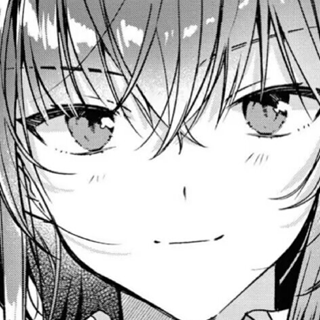
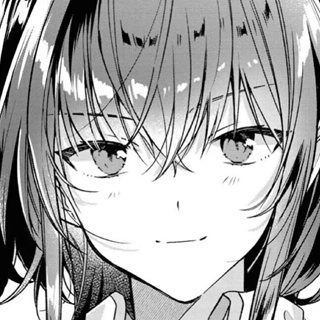
style: 头像改放 ID 上方并重裁，删除技能进度条，背景加入网格与彩色光带

diff --git a/style.css b/style.css
@@ -65,7 +65,6 @@ html:not(.js-ready) .entry,
 html:not(.js-ready) .loader{display:none!important}
 html:not(.js-ready) .site{opacity:1!important}
 html:not(.js-ready) .reveal{opacity:1!important;transform:none!important}
-html:not(.js-ready) .skill .bar i{width:var(--w)!important}
 html:not(.js-ready) .hero-name,
 html:not(.js-ready) .entry-id{-webkit-text-fill-color:currentColor!important;color:#eaf4ff!important}
 
@@ -119,9 +118,9 @@ button{font:inherit;color:inherit;background:none;border:none;cursor:pointer}
 .bg-aurora{
   position:absolute;inset:-15% -10% 0;
   background:
-    radial-gradient(45% 34% at 26% 30%, rgba(94,234,212,.20) 0%, rgba(94,234,212,0) 70%),
-    radial-gradient(42% 30% at 74% 22%, rgba(124,156,255,.24) 0%, rgba(124,156,255,0) 70%),
-    radial-gradient(50% 36% at 54% 62%, rgba(192,140,255,.16) 0%, rgba(192,140,255,0) 72%);
+    radial-gradient(45% 34% at 26% 30%, rgba(94,234,212,.27) 0%, rgba(94,234,212,0) 70%),
+    radial-gradient(42% 30% at 74% 22%, rgba(124,156,255,.31) 0%, rgba(124,156,255,0) 70%),
+    radial-gradient(50% 36% at 54% 62%, rgba(192,140,255,.21) 0%, rgba(192,140,255,0) 72%);
   filter:blur(12px);
   animation:aurora 22s ease-in-out infinite;
 }
@@ -453,16 +452,26 @@ button{font:inherit;color:inherit;background:none;border:none;cursor:pointer}
 /* ============================================================
    通用板块
    ============================================================ */
-/* 正文区底色：在深色基座上叠四道极淡的环境光，
-   避免 Hero 之下的长内容区变成一块死黑，同时不干扰文字对比度 */
+/* 正文区底色
+   原来只有四道极淡的光斑，整片区域接近纯黑、显得单调。
+   现在：基座提亮一档，再叠上「细网格线 + 斜向彩色光带 + 彩色光斑」。
+   网格线提供结构感，彩色光带负责打破纯黑，同时保持文字对比度。 */
 main{
   position:relative;z-index:2;
   background:
-    radial-gradient(70% 32% at 12% 5%,  rgba(94,234,212,.065) 0%, rgba(94,234,212,0) 70%),
-    radial-gradient(64% 28% at 90% 24%, rgba(124,156,255,.08) 0%, rgba(124,156,255,0) 72%),
-    radial-gradient(72% 30% at 48% 58%, rgba(192,140,255,.055) 0%, rgba(192,140,255,0) 74%),
-    radial-gradient(68% 26% at 28% 92%, rgba(94,234,212,.05) 0%, rgba(94,234,212,0) 72%),
-    linear-gradient(180deg,#05080f 0%,#080d1a 40%,#05080f 100%);
+    /* 细网格：横向 + 纵向各一层 */
+    repeating-linear-gradient(0deg,  rgba(150,205,255,.040) 0 1px, transparent 1px 46px),
+    repeating-linear-gradient(90deg, rgba(150,205,255,.040) 0 1px, transparent 1px 46px),
+    /* 斜向彩色光带 */
+    linear-gradient(112deg, transparent 0 33%, rgba(94,234,212,.055) 44%, transparent 53% 100%),
+    linear-gradient(112deg, transparent 0 60%, rgba(124,156,255,.070) 71%, transparent 80% 100%),
+    /* 彩色光斑 */
+    radial-gradient(72% 30% at 10% 3%,  rgba(94,234,212,.15) 0%, rgba(94,234,212,0) 70%),
+    radial-gradient(66% 26% at 92% 21%, rgba(124,156,255,.17) 0%, rgba(124,156,255,0) 72%),
+    radial-gradient(74% 28% at 46% 55%, rgba(192,140,255,.13) 0%, rgba(192,140,255,0) 74%),
+    radial-gradient(70% 24% at 26% 89%, rgba(94,234,212,.13) 0%, rgba(94,234,212,0) 72%),
+    /* 基座：比原来亮一档，不再是接近纯黑 */
+    linear-gradient(180deg,#080e1d 0%,#0e1734 42%,#0a1226 100%);
 }
 
 .sec{
@@ -522,11 +531,15 @@ main{
 /* 01 关于我 —— 档案卡 */
 /* 01 关于我 —— 档案卡（纵向撑满，与左侧卡片底边对齐） */
 .card.profile{display:flex;flex-direction:column}
-.profile-top{display:flex;align-items:center;gap:16px;padding-bottom:20px;border-bottom:1px solid var(--line);margin-bottom:18px}
+/* 头像放在 ID 数字上方，整块居中成一列 */
+.profile-top{
+  display:flex;flex-direction:column;align-items:center;text-align:center;gap:13px;
+  padding-bottom:22px;border-bottom:1px solid var(--line);margin-bottom:18px;
+}
 /* 头像：真实图片，圆形 + 主题色描边。
    固定 width/height 属性与 CSS 同时给值，避免图片加载时卡片跳动（CLS）。 */
 .avatar{
-  width:64px;height:64px;border-radius:50%;flex:none;
+  width:60px;height:60px;border-radius:50%;flex:none;
   display:block;object-fit:cover;
   border:2px solid rgba(94,234,212,.34);
   background:linear-gradient(135deg,var(--acc),var(--acc-2));
@@ -572,8 +585,8 @@ main{
 }
 .feature-icon svg{width:21px;height:21px}
 
-/* 04 技能 */
-.skill-head{display:flex;align-items:center;justify-content:space-between;gap:12px;margin-bottom:12px}
+/* 04 技能（已去掉进度条，只保留名称 + 状态标签 + 说明） */
+.skill-head{display:flex;align-items:center;justify-content:space-between;gap:12px;margin-bottom:14px}
 .skill-head span{font-size:16px;font-weight:700}
 .s-tag{
   font-style:normal;font-size:12px;letter-spacing:.06em;
@@ -582,14 +595,6 @@ main{
 .s-doing{color:var(--warm);background:rgba(255,208,138,.12);border:1px solid rgba(255,208,138,.28)}
 .s-done{color:var(--acc);background:rgba(94,234,212,.12);border:1px solid rgba(94,234,212,.28)}
 .s-next{color:var(--acc-3);background:rgba(192,140,255,.12);border:1px solid rgba(192,140,255,.28)}
-.bar{height:5px;border-radius:5px;background:rgba(255,255,255,.08);overflow:hidden;margin-bottom:12px}
-.bar i{
-  display:block;height:100%;width:0;border-radius:5px;
-  background:linear-gradient(90deg,var(--acc),var(--acc-2));
-  box-shadow:0 0 10px rgba(94,234,212,.5);
-  transition:width 1.2s var(--ease);
-}
-.skill.in .bar i{width:var(--w)}
 .skill p{font-size:14.5px;color:var(--ink-soft);line-height:1.8}
 
 /* 05 时间线 */
@@ -659,7 +664,7 @@ main{
 .footer{
   position:relative;z-index:2;
   border-top:1px solid var(--line);
-  background:#05080f;
+  background:linear-gradient(180deg,#0a1226 0%,#070c18 100%);
   padding:38px 24px 46px;
 }
 .foot-inner{
@@ -725,7 +730,6 @@ main{
 @media (prefers-reduced-motion: reduce){
   *,*::before,*::after{animation-duration:.01ms!important;animation-iteration-count:1!important;transition-duration:.01ms!important}
   .reveal{opacity:1;transform:none}
-  .skill .bar i{width:var(--w)}
 }
 
 /* 打印 */

diff --git a/index.html b/index.html
@@ -192,10 +192,8 @@
         <aside class="card profile reveal">
           <div class="profile-top">
             <img class="avatar" src="avatar.png" width="320" height="320" alt="2603130114 的头像" decoding="async">
-            <div>
-              <div class="profile-name">2603130114</div>
-              <div class="profile-sub">网络工程 · 在读</div>
-            </div>
+            <div class="profile-name">2603130114</div>
+            <div class="profile-sub">网络工程 · 在读</div>
           </div>
           <dl class="profile-list">
             <div><dt>标识</dt><dd>2603130114</dd></div>
@@ -319,22 +317,18 @@
       <div class="grid-2">
         <div class="skill card reveal">
           <div class="skill-head"><span>C 语言</span><em class="s-tag s-doing">系统学习中</em></div>
-          <div class="bar"><i style="--w:55%"></i></div>
           <p>掌握基础语法与程序结构，练习独立编写小程序。</p>
         </div>
         <div class="skill card reveal">
           <div class="skill-head"><span>Python</span><em class="s-tag s-next">计划中</em></div>
-          <div class="bar"><i style="--w:12%"></i></div>
           <p>计划在通过英语四级之后开始学习，作为 C 语言之外的第二门编程语言。</p>
         </div>
         <div class="skill card reveal">
           <div class="skill-head"><span>开发工具</span><em class="s-tag s-done">已上手</em></div>
-          <div class="bar"><i style="--w:70%"></i></div>
           <p>使用 VS Code 编写与调试代码，熟悉编译、运行、版本管理的基本流程。</p>
         </div>
         <div class="skill card reveal">
           <div class="skill-head"><span>计算机网络</span><em class="s-tag s-next">下一站</em></div>
-          <div class="bar"><i style="--w:25%"></i></div>
           <p>专业核心课程方向，即将深入学习协议与组网实践。</p>
         </div>
       </div>

diff --git a/README.md b/README.md
@@ -47,7 +47,7 @@ personal-page/
 | 01 关于我 | 个人介绍、学习态度、兴趣，以及一张个人信息档案卡 |
 | 02 基本信息 | 标识 / 年级 / 籍贯 / 学校 / 学院 / 专业 六张卡片 |
 | 03 专业方向 | 网络工程的主要学习方向（6 个方向） |
-| 04 技能与学习 | C 语言、Python、开发工具、计算机网络的学习进度 |
+| 04 技能与学习 | C 语言、Python、开发工具、计算机网络，用状态标签标注学习阶段 |
 | 05 学习经历 | 从入学到现在的学习时间线（5 个阶段） |
 | 06 未来规划 | 近期 / 中期 / 远期三个阶段的目标 |
 | 07 联系方式 | 电子邮箱、GitHub、微信（均支持一键复制） |
@@ -56,7 +56,7 @@ personal-page/
 
 - 语义化 HTML5 + CSS 自定义属性（变量）
 - CSS 渐变与内联 SVG 绘制背景（星空、极光、山峦、网络拓扑）
-- `IntersectionObserver` 实现滚动进场与技能条动画
+- `IntersectionObserver` 实现滚动进场动画
 - `requestAnimationFrame` 实现数字滚动
 - `navigator.clipboard` 实现一键复制，并保留 `execCommand` 兜底
 
